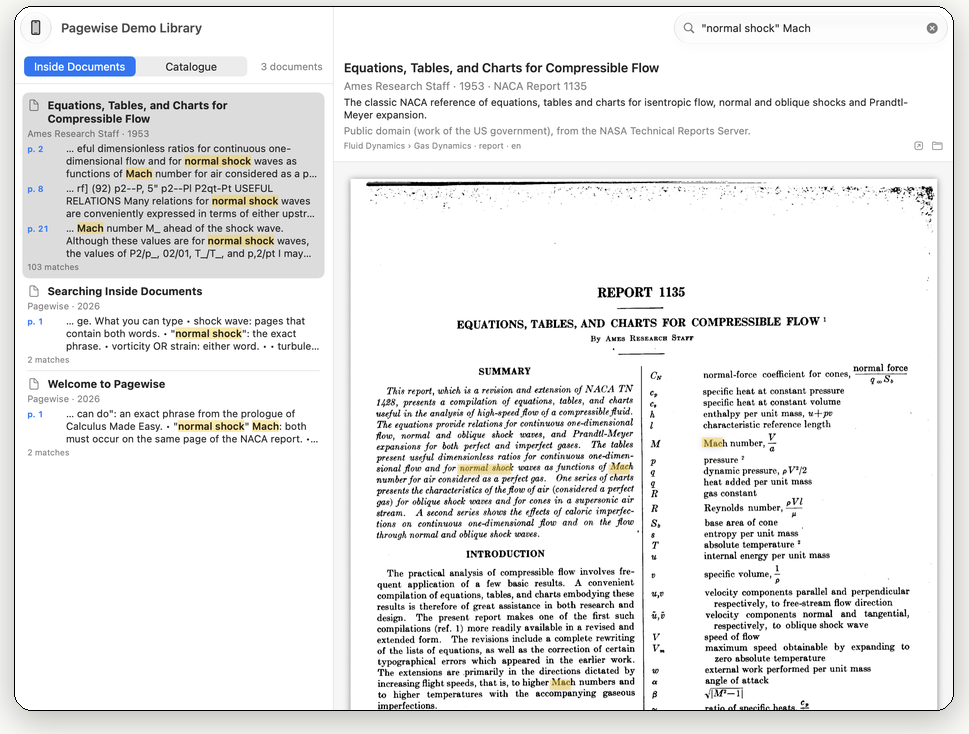
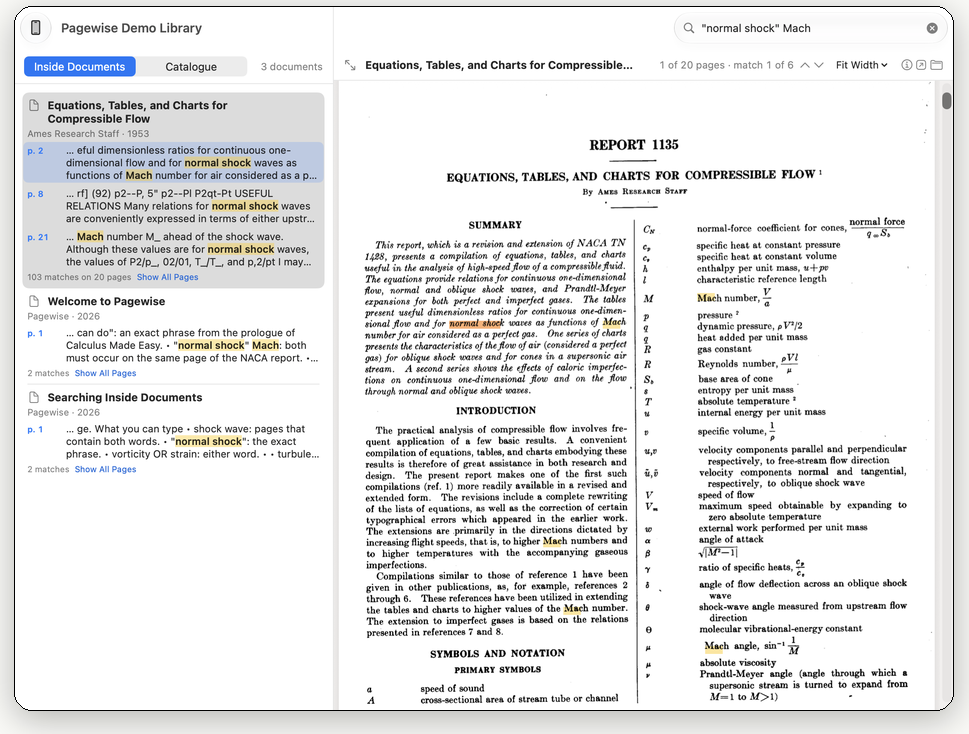
Version 0.2.4: download links, checksum, new screenshots of the reader
The screenshots show the one-line header above the document, Fit Width and the marked
match, and the current Inbox; "One click to the page" mentions ⌘G, scans and Reading View.

diff --git a/index.html b/index.html
@@ -33,7 +33,7 @@
       <button type="button" data-lang="en" aria-pressed="true">EN</button>
       <button type="button" data-lang="zh" aria-pressed="false">中文</button>
     </span>
-    <a class="btn" href="https://github.com/xxln/pagewise-app/releases/download/v0.2.3/Pagewise-0.2.3.dmg">
+    <a class="btn" href="https://github.com/xxln/pagewise-app/releases/download/v0.2.4/Pagewise-0.2.4.dmg">
       <svg viewBox="0 0 24 24" fill="none" stroke="currentColor" stroke-width="2.4" stroke-linecap="round" stroke-linejoin="round" aria-hidden="true"><path d="M12 4v11m0 0-4.5-4.5M12 15l4.5-4.5M5 20h14"/></svg>
       <span class="label"><span class="en">Download</span><span class="zh">下载</span></span>
     </a>
@@ -51,13 +51,13 @@
       <span class="en">Pagewise is a Mac app for your library of PDFs. It searches inside every document and opens the PDF at the right page, with your search words highlighted.</span>
       <span class="zh">Pagewise 是一款管理 PDF 资料库的 Mac 应用：在所有文档里全文搜索，点一下页码，PDF 就在那一页打开，搜索词高亮显示。</span>
     </p>
-    <a class="btn big" href="https://github.com/xxln/pagewise-app/releases/download/v0.2.3/Pagewise-0.2.3.dmg">
+    <a class="btn big" href="https://github.com/xxln/pagewise-app/releases/download/v0.2.4/Pagewise-0.2.4.dmg">
       <svg viewBox="0 0 24 24" fill="none" stroke="currentColor" stroke-width="2.4" stroke-linecap="round" stroke-linejoin="round" aria-hidden="true"><path d="M12 4v11m0 0-4.5-4.5M12 15l4.5-4.5M5 20h14"/></svg>
       <span class="en">Download for Mac, free</span><span class="zh">免费下载 Mac 版</span>
     </a>
     <p class="meta">
-      <span class="en">Version 0.2.3 beta · macOS 14 Sonoma or later · Apple silicon and Intel · 15 MB</span>
-      <span class="zh">版本 0.2.3 测试版 · macOS 14 或更高版本 · Apple 芯片和 Intel · 15 MB</span>
+      <span class="en">Version 0.2.4 beta · macOS 14 Sonoma or later · Apple silicon and Intel · 15 MB</span>
+      <span class="zh">版本 0.2.4 测试版 · macOS 14 或更高版本 · Apple 芯片和 Intel · 15 MB</span>
     </p>
     <p class="notice">
       <span class="en"><b>First launch:</b> this beta is not yet notarized by Apple, so macOS blocks it the first time. Allow it once in <b>System Settings › Privacy &amp; Security › Open Anyway</b>. <a href="#open">How to open it</a></span>
@@ -139,8 +139,8 @@
     <div class="feature">
       <div class="text">
         <h3><span class="en">One click to the page</span><span class="zh">一点就到那一页</span></h3>
-        <p><span class="en">Click a page number and the PDF opens at that page, with your search words highlighted.</span>
-           <span class="zh">点击页码，PDF 就在那一页打开，搜索词高亮显示。</span></p>
+        <p><span class="en">Click a page number and the PDF opens at that page, fitted to the window, with the match marked and your search words highlighted, on scanned pages too. ⌘G goes to the next match; Reading View gives the page the whole window.</span>
+           <span class="zh">点击页码，PDF 就在那一页打开，页面适合窗口宽度，当前命中标出、搜索词高亮显示，扫描页也一样。⌘G 跳到下一个命中；“阅读视图”让页面占满整个窗口。</span></p>
       </div>
       <img class="shot" src="assets/2-page.png" alt="A PDF opened at the matching page with the search words highlighted" loading="lazy" width="811" height="769">
     </div>
@@ -216,8 +216,8 @@
     <h2><span class="en">Install</span><span class="zh">安装</span></h2>
     <p class="sub"><span class="en">Pagewise needs macOS 14 Sonoma or later, on Apple silicon or Intel.</span><span class="zh">需要 macOS 14 或更高版本，Apple 芯片或 Intel 均可。</span></p>
     <ol class="steps">
-      <li><span class="en"><a href="https://github.com/xxln/pagewise-app/releases/download/v0.2.3/Pagewise-0.2.3.dmg">Download Pagewise-0.2.3.dmg</a> and open it.</span>
-          <span class="zh"><a href="https://github.com/xxln/pagewise-app/releases/download/v0.2.3/Pagewise-0.2.3.dmg">下载 Pagewise-0.2.3.dmg</a> 并打开。</span></li>
+      <li><span class="en"><a href="https://github.com/xxln/pagewise-app/releases/download/v0.2.4/Pagewise-0.2.4.dmg">Download Pagewise-0.2.4.dmg</a> and open it.</span>
+          <span class="zh"><a href="https://github.com/xxln/pagewise-app/releases/download/v0.2.4/Pagewise-0.2.4.dmg">下载 Pagewise-0.2.4.dmg</a> 并打开。</span></li>
       <li><span class="en">Drag <b>Pagewise</b> onto <b>Applications</b>.</span><span class="zh">把 <b>Pagewise</b> 拖到 <b>应用程序</b>（Applications）。</span></li>
       <li><span class="en">Open Pagewise. The first time, macOS stops it because this beta is not yet notarized by Apple: allow it once as shown in <a href="#open">Opening Pagewise the first time</a>.</span>
           <span class="zh">打开 Pagewise。因为这个测试版还没有经过 Apple 公证，第一次打开时 macOS 会阻止它：按 <a href="#open">第一次打开 Pagewise</a> 里的步骤允许一次即可。</span></li>
@@ -252,18 +252,18 @@
       </div>
       <div class="card">
         <h3><span class="en">Check the download</span><span class="zh">核对下载文件</span></h3>
-        <p><span class="en">SHA-256 of Pagewise-0.2.3.dmg:</span><span class="zh">Pagewise-0.2.3.dmg 的 SHA-256：</span></p>
-        <p class="hash">0d91f56912d6de8234404052066ff94cabc28757f4c5d4bff6a3554645e3e3b3</p>
+        <p><span class="en">SHA-256 of Pagewise-0.2.4.dmg:</span><span class="zh">Pagewise-0.2.4.dmg 的 SHA-256：</span></p>
+        <p class="hash">4cb3e7152825a876a7b2c658446cf49b2f27c6bdc7baa16c4a1cba063560139f</p>
         <p><span class="en">To check it, paste this in <b>Terminal</b> and compare the result with the line above (change the path if you saved the file elsewhere):</span>
            <span class="zh">核对方法：在“终端”里粘贴下面这一行，把结果和上面那一行比较（如果文件不在“下载”文件夹里，请改成实际路径）：</span></p>
         <div class="cmd">
-          <code id="checksum">shasum -a 256 ~/Downloads/Pagewise-0.2.3.dmg</code>
+          <code id="checksum">shasum -a 256 ~/Downloads/Pagewise-0.2.4.dmg</code>
           <button type="button" class="copy" data-copy="checksum"><span class="en">Copy</span><span class="zh">复制</span></button>
         </div>
       </div>
     </div>
     <div class="cta" style="margin-top:44px">
-      <a class="btn big" href="https://github.com/xxln/pagewise-app/releases/download/v0.2.3/Pagewise-0.2.3.dmg">
+      <a class="btn big" href="https://github.com/xxln/pagewise-app/releases/download/v0.2.4/Pagewise-0.2.4.dmg">
         <svg viewBox="0 0 24 24" fill="none" stroke="currentColor" stroke-width="2.4" stroke-linecap="round" stroke-linejoin="round" aria-hidden="true"><path d="M12 4v11m0 0-4.5-4.5M12 15l4.5-4.5M5 20h14"/></svg>
         <span class="en">Download for Mac, free</span><span class="zh">免费下载 Mac 版</span>
       </a>
